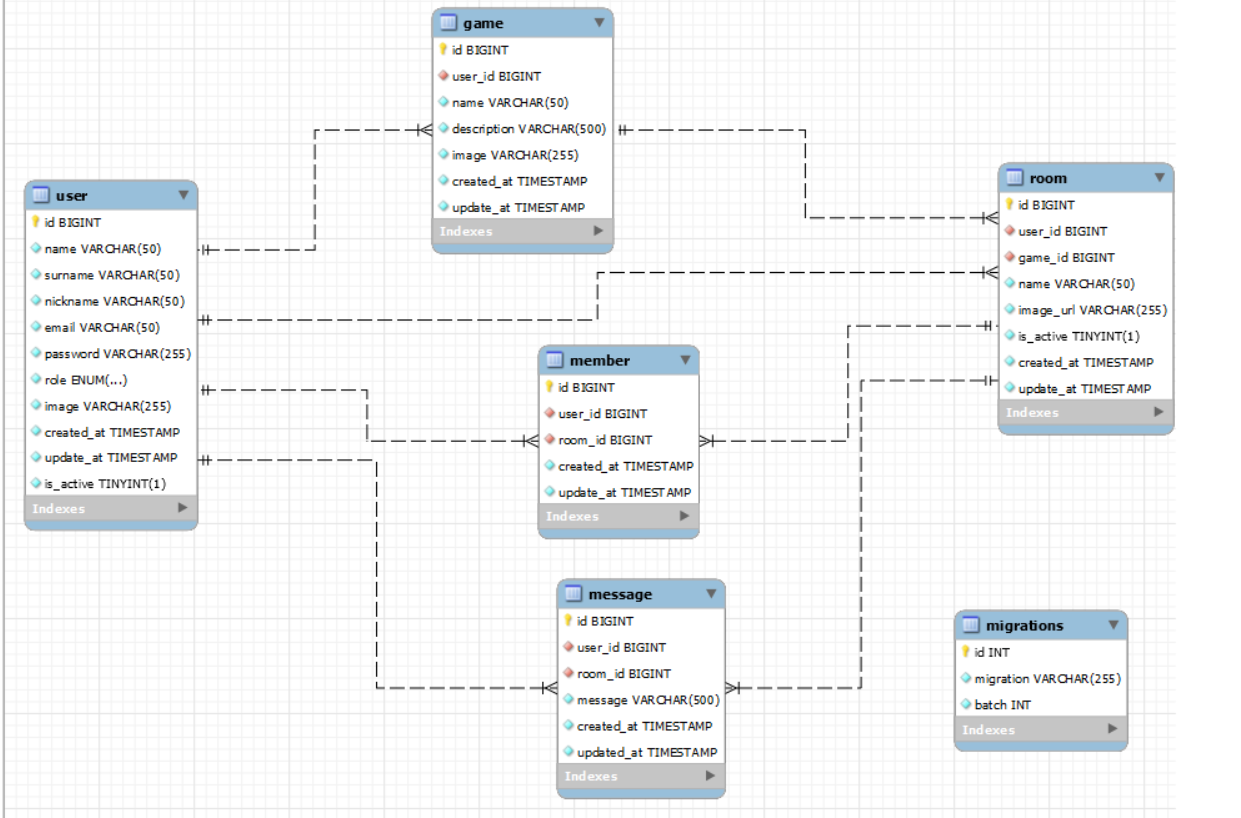
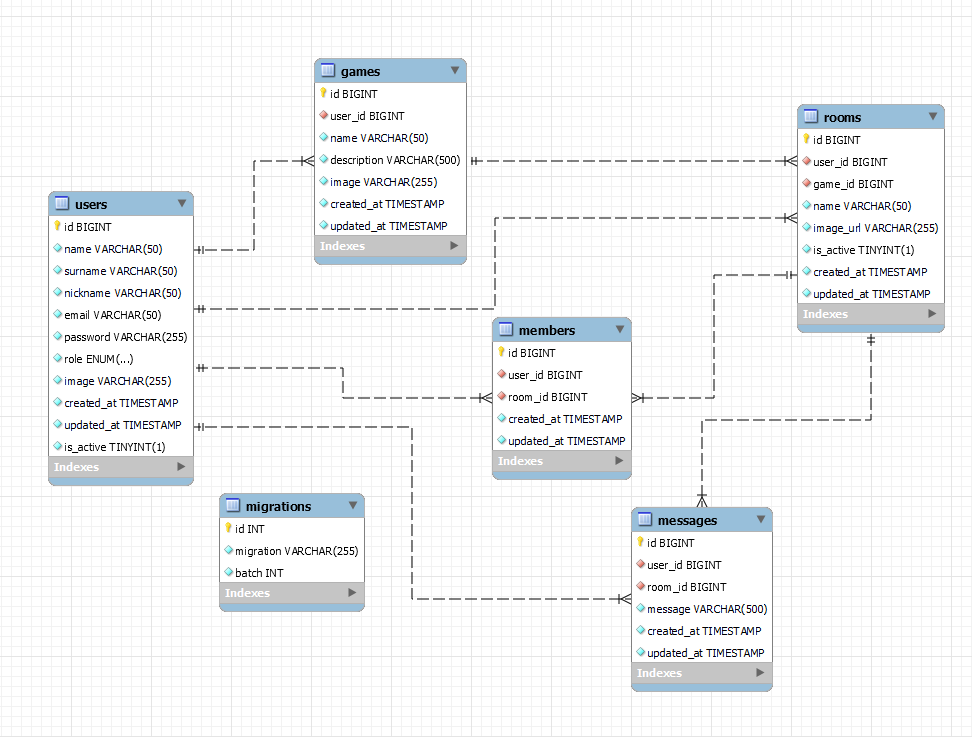
Test:Testing relations.

diff --git a/database/migrations/2023_12_04_153107_create_rooms_table.php b/database/migrations/2023_12_04_153107_create_rooms_table.php
@@ -15,10 +15,10 @@ return new class extends Migration
             $table->id();
             $table->unsignedBigInteger('user_id');
             $table->unsignedBigInteger('game_id');
-            $table->foreign('user_id')->references('id')->on('user');
-            $table->foreign('game_id')->references('id')->on('game');
+            $table->foreign('user_id')->references('id')->on('users');
+            $table->foreign('game_id')->references('id')->on('games');
             $table->string('name',50);
-            $table->string('image_url', 255);
+            $table->string('image_url', 255)->default("https://www.idsplus.net/wp-content/uploads/default-placeholder.png");
             $table->boolean('is_active')->default(true);
             $table->timestamp('created_at')->useCurrent();
             $table->timestamp('updated_at')->useCurrent()->useCurrentOnUpdate();

diff --git a/database/migrations/2023_12_04_153045_create_games_table.php b/database/migrations/2023_12_04_153045_create_games_table.php
@@ -14,10 +14,10 @@ return new class extends Migration
         Schema::create('games', function (Blueprint $table) {
             $table->id();
             $table->unsignedBigInteger('user_id');
-            $table->foreign('user_id')->references("id")->on("user");
+            $table->foreign('user_id')->references("id")->on("users");
             $table->string('name', 50);
             $table->string('description', 500);
-            $table->string('image', 255);
+            $table->string('image', 255)->default("https://www.idsplus.net/wp-content/uploads/default-placeholder.png");
             $table->timestamp('created_at')->useCurrent();
             $table->timestamp('updated_at')->useCurrent()->useCurrentOnUpdate();
         });

diff --git a/database/migrations/2023_12_04_153136_create_members_table.php b/database/migrations/2023_12_04_153136_create_members_table.php
@@ -15,8 +15,8 @@ return new class extends Migration
             $table->id();
             $table->unsignedBigInteger('user_id');
             $table->unsignedBigInteger('room_id');
-            $table->foreign("user_id")->references("id")->on("user");
-            $table->foreign("room_id")->references("id")->on("room");
+            $table->foreign("user_id")->references("id")->on("users");
+            $table->foreign("room_id")->references("id")->on("rooms");
             $table->unique(["user_id", "room_id"]);
             $table->timestamp('created_at')->useCurrent();
             $table->timestamp('updated_at')->useCurrent()->useCurrentOnUpdate();

diff --git a/database/migrations/2023_12_04_153159_create_messages_table.php b/database/migrations/2023_12_04_153159_create_messages_table.php
@@ -15,8 +15,8 @@ return new class extends Migration
             $table->id();
             $table->unsignedBigInteger('user_id');
             $table->unsignedBigInteger('room_id');
-            $table->foreign("user_id")->references("id")->on("user");
-            $table->foreign("room_id")->references("id")->on("room");
+            $table->foreign("user_id")->references("id")->on("users");
+            $table->foreign("room_id")->references("id")->on("rooms");
             $table->string("message", 500);
             $table->timestamp('created_at')->useCurrent();
             $table->timestamp('updated_at')->useCurrent()->useCurrentOnUpdate();
